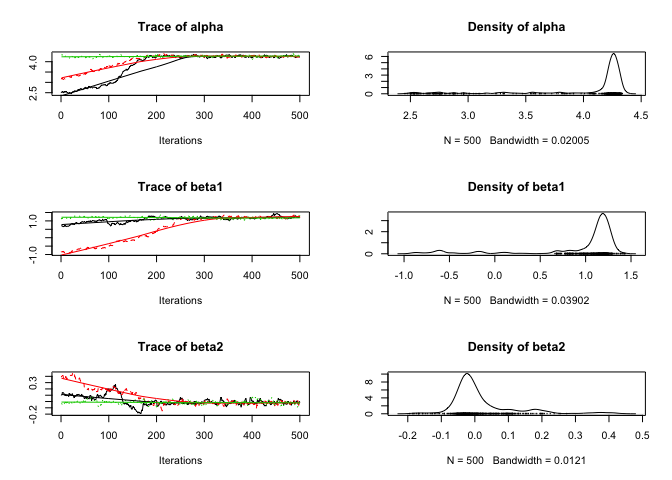
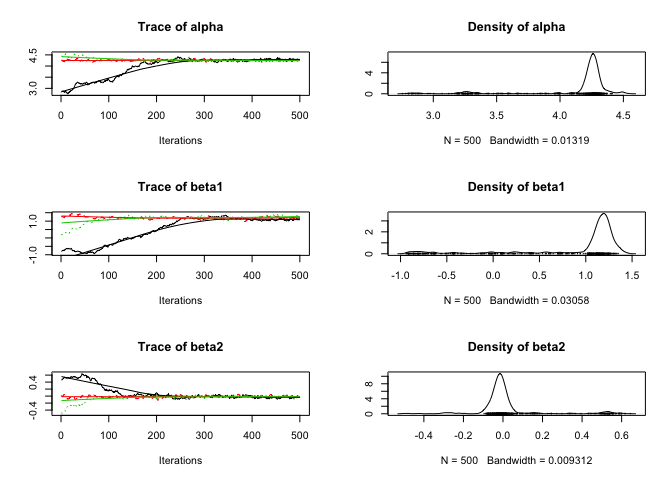
lifecycle

diff --git a/README.md b/README.md
@@ -1,7 +1,7 @@
 
 <!-- README.md is generated from README.Rmd. Please edit that file -->
 
-[![stability-unstable](https://img.shields.io/badge/stability-unstable-yellow.svg)](https://github.com/joethorley/stability-badges#unstable)
+[![lifecycle](https://img.shields.io/badge/lifecycle-maturing-blue.svg)](https://www.tidyverse.org/lifecycle/#maturing)
 [![Travis-CI Build
 Status](https://travis-ci.org/poissonconsulting/jmbr.svg?branch=master)](https://travis-ci.org/poissonconsulting/jmbr)
 [![AppVeyor Build
@@ -72,22 +72,22 @@ analysis <- analyse(model, data = data)
 #> # A tibble: 1 x 8
 #>       n     K nchains niters nthin   ess  rhat converged
 #>   <int> <int>   <int>  <int> <int> <int> <dbl> <lgl>    
-#> 1    40     5       3    500     1    15  4.44 F
+#> 1    40     5       3    500     1    15  11.2 F
 analysis %<>% reanalyse()
 #> # A tibble: 1 x 8
 #>       n     K nchains niters nthin   ess  rhat converged
 #>   <int> <int>   <int>  <int> <int> <int> <dbl> <lgl>    
-#> 1    40     5       3    500     2    30  2.59 F
+#> 1    40     5       3    500     2    30  2.31 F
 
 coef(analysis)
 #> # A tibble: 5 x 7
-#>   term        estimate     sd zscore   lower upper   pvalue
-#> * <S3: term>     <dbl>  <dbl>  <dbl>   <dbl> <dbl>    <dbl>
-#> 1 alpha         4.24   0.456   8.88   2.65   4.33  0.000700
-#> 2 beta1         1.16   0.550   1.70  -0.679  1.31  0.215   
-#> 3 beta2        -0.0124 0.0957  0.184 -0.0891 0.340 0.795   
-#> 4 beta3        -0.268  0.267  -0.805 -0.695  0.462 0.291   
-#> 5 log_sAnnual  -2.10   1.04   -1.61  -2.87   0.580 0.261
+#>   term        estimate    sd   zscore  lower upper   pvalue
+#> * <S3: term>     <dbl> <dbl>    <dbl>  <dbl> <dbl>    <dbl>
+#> 1 alpha         4.25   0.309  13.5     3.20  4.43  0.000700
+#> 2 beta1         1.16   0.563   1.67   -0.811 1.36  0.200   
+#> 3 beta2        -0.0146 0.142   0.0459 -0.255 0.529 0.681   
+#> 4 beta3        -0.256  0.220 - 0.797  -0.350 0.503 0.293   
+#> 5 log_sAnnual  -2.08   0.813 - 2.27   -2.83  0.253 0.157
 
 plot(analysis)
 ```
